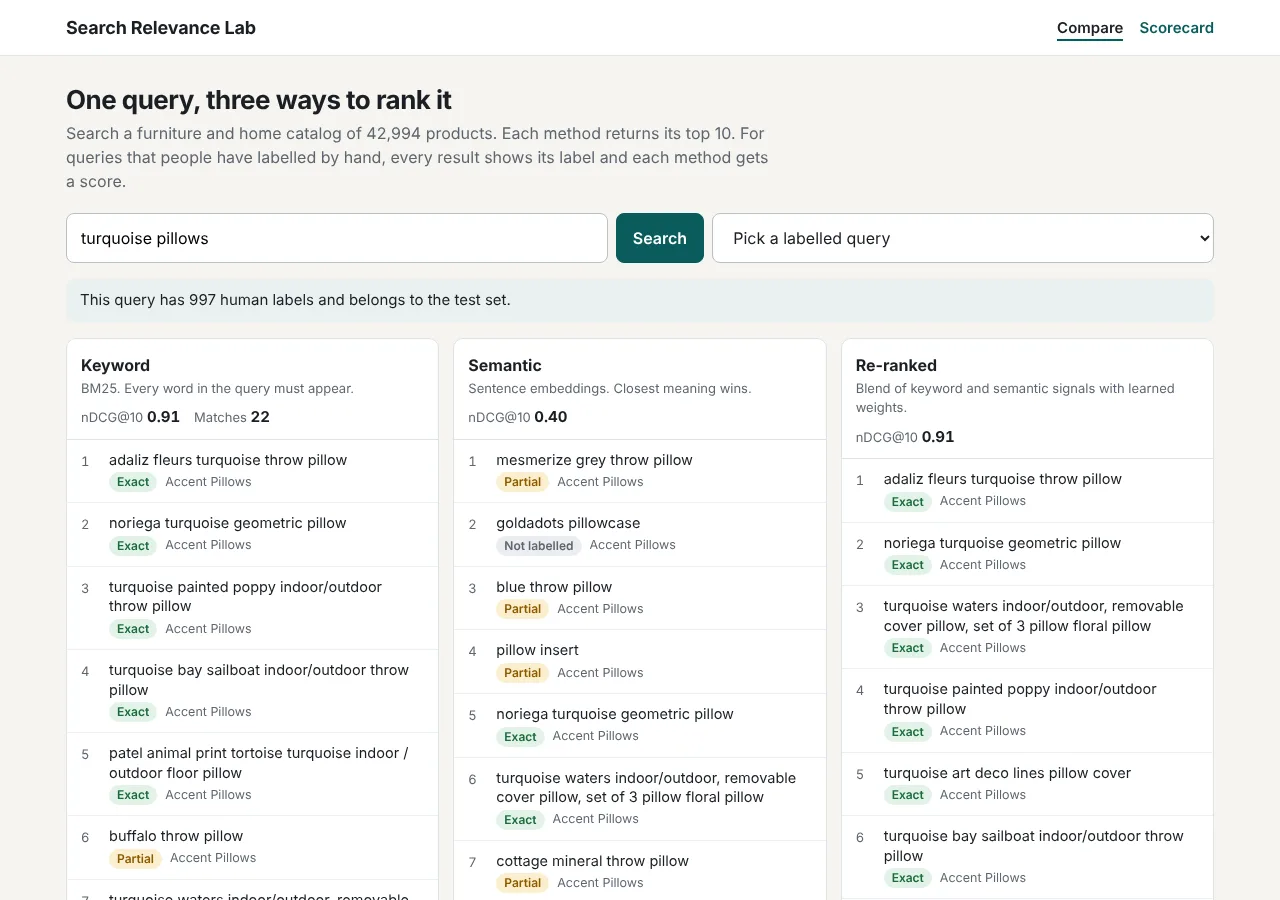
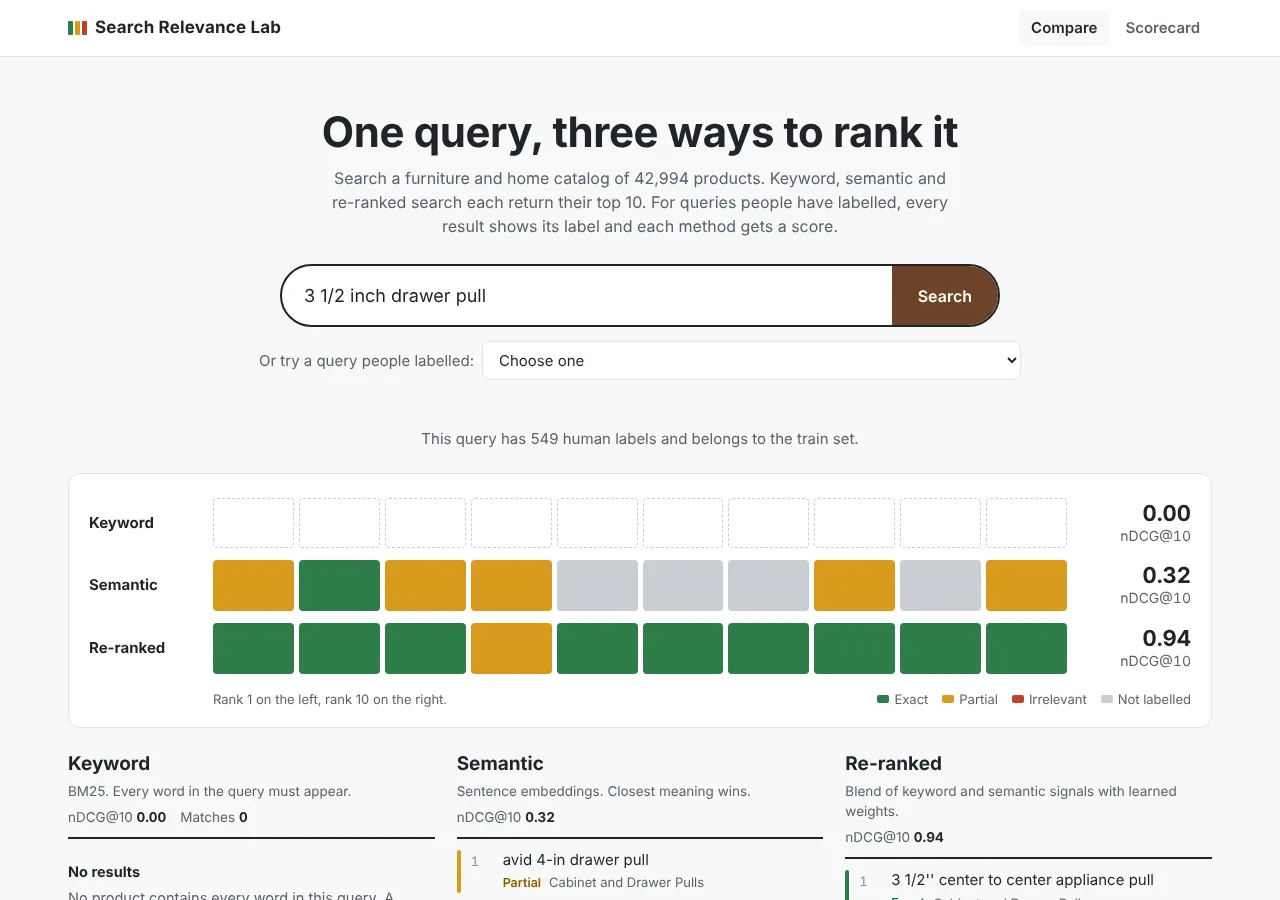
v2.19.2: new screenshots for the three redesigned apps

diff --git a/index.html b/index.html
@@ -280,7 +280,7 @@
     <div class="works">
       <article class="work reveal" data-cat="ai">
         <div>
-          <div class="meta"><span class="tag ver">v0.1.0</span><span class="tag confirmed">Live app</span></div>
+          <div class="meta"><span class="tag ver">v0.2.0</span><span class="tag confirmed">Live app</span></div>
           <h3>Garage Voice Agent</h3>
           <p class="on">Voice AI, agent platform, guardrails and evals</p>
           <dl class="ps"><div><dt>Problem</dt><dd>Voice agents are hard to trust when you can't see why they said what they said.</dd></div><div><dt>Solution</dt><dd>A voice agent for a made-up garage with every step visible, tested against simulated speech errors before each release.</dd></div></dl>
@@ -504,7 +504,7 @@
         </div><a class="thumb" href="projects/zero-results-fixer.html" tabindex="-1" aria-hidden="true"><img src="assets/img/thumbs/zero-results-fixer.webp" alt="" width="560" height="350" loading="lazy"></a></article>
       <article class="work reveal" data-cat="ai">
         <div>
-          <div class="meta"><span class="tag ver">v0.1.0</span><span class="tag confirmed">Live demo</span></div>
+          <div class="meta"><span class="tag ver">v0.2.0</span><span class="tag confirmed">Live demo</span></div>
           <h3>Confidence Gate Lab</h3>
           <p class="on">AI evaluation, Banking77 dataset</p>
           <dl class="ps"><div><dt>Problem</dt><dd>An AI that answers every question will get some of them wrong.</dd></div><div><dt>Solution</dt><dd>Sets when AI answers alone and when a person checks. At 2% wrong answers, the better model automates 67.0% of 3,080 questions.</dd></div></dl>
@@ -512,7 +512,7 @@
         </div><a class="thumb" href="projects/confidence-gate-lab.html" tabindex="-1" aria-hidden="true"><img src="assets/img/thumbs/confidence-gate-lab.webp" alt="" width="560" height="350" loading="lazy"></a></article>
       <article class="work reveal" data-cat="search">
         <div>
-          <div class="meta"><span class="tag ver">v0.1.0</span><span class="tag confirmed">Live demo</span></div>
+          <div class="meta"><span class="tag ver">v0.2.0</span><span class="tag confirmed">Live demo</span></div>
           <h3>Search Relevance Lab</h3>
           <p class="on">BM25, sentence embeddings, open WANDS dataset</p>
           <dl class="ps"><div><dt>Problem</dt><dd>Teams pay for better search models without knowing what each step adds.</dd></div><div><dt>Solution</dt><dd>Keyword, semantic and reranked search on 42,994 products, scored against labels made by people.</dd></div></dl>

diff --git a/projects/confidence-gate-lab.html b/projects/confidence-gate-lab.html
@@ -34,11 +34,11 @@
 <section class="p-hero">
   <div class="wrap">
     <a class="back" href="../#work">← All projects</a>
-    <div class="meta" style="display:flex;gap:10px;flex-wrap:wrap"><span class="tag ver">v0.1.0</span><span class="tag confirmed">Live demo</span></div>
+    <div class="meta" style="display:flex;gap:10px;flex-wrap:wrap"><span class="tag ver">v0.2.0</span><span class="tag confirmed">Live demo</span></div>
     <h1>Confidence Gate Lab</h1>
     <p class="lead">Every AI feature that answers customers needs a rule for when it may answer alone. This lab makes that rule visible: two classifiers, 3,080 labelled bank customer questions, and one threshold you can move to see automation, errors and human workload change together.</p>
     <div class="p-links"><a class="btn primary" href="https://kostasxeras.com/confidence-gate-lab/">Open the live demo <span class="arrow">→</span></a><a class="btn" href="https://github.com/costasxeras-stack/confidence-gate-lab/blob/main/docs/case-study.md">Full case study</a><a class="btn" href="https://github.com/costasxeras-stack/confidence-gate-lab">Repo</a></div>
-    <dl class="p-meta"><div><dt>Data</dt><dd>Banking77, 13,083 labelled questions</dd></div><div><dt>Models</dt><dd>Keyword baseline, AI classifier</dd></div><div><dt>Test set</dt><dd>3,080 questions, 77 intents</dd></div><div><dt>Status</dt><dd>v0.1.0, live demo</dd></div></dl>
+    <dl class="p-meta"><div><dt>Data</dt><dd>Banking77, 13,083 labelled questions</dd></div><div><dt>Models</dt><dd>Keyword baseline, AI classifier</dd></div><div><dt>Test set</dt><dd>3,080 questions, 77 intents</dd></div><div><dt>Status</dt><dd>v0.2.0, live demo</dd></div></dl>
   </div>
 </section>
 

diff --git a/projects/garage-voice-agent.html b/projects/garage-voice-agent.html
@@ -34,11 +34,11 @@
 <section class="p-hero">
   <div class="wrap">
     <a class="back" href="../#work">← All projects</a>
-    <div class="meta" style="display:flex;gap:10px;flex-wrap:wrap"><span class="tag ver">v0.1.0</span><span class="tag confirmed">Live app</span></div>
+    <div class="meta" style="display:flex;gap:10px;flex-wrap:wrap"><span class="tag ver">v0.2.0</span><span class="tag confirmed">Live app</span></div>
     <h1>Garage Voice Agent</h1>
     <p class="lead">A voice agent that answers customer calls has to hear the caller, collect details, call the right systems, stay inside rules it must never break and know when to hand over to a person. I built one end to end for a made-up garage, with every layer visible and tested.</p>
     <div class="p-links"><a class="btn primary" href="https://kostasxeras.com/garage-voice-agent/">Open the app <span class="arrow">→</span></a><a class="btn" href="https://github.com/costasxeras-stack/garage-voice-agent/blob/main/docs/case-study.md">Case study</a><a class="btn" href="https://github.com/costasxeras-stack/garage-voice-agent">Code and decisions</a></div>
-    <dl class="p-meta"><div><dt>Data</dt><dd>Made-up garage, 70 synthetic test calls</dd></div><div><dt>Speech</dt><dd>Browser recognition and voices</dd></div><div><dt>AI</dt><dd>Rules, or Claude with your key</dd></div><div><dt>Status</dt><dd>v0.1.0, live</dd></div></dl>
+    <dl class="p-meta"><div><dt>Data</dt><dd>Made-up garage, 70 synthetic test calls</dd></div><div><dt>Speech</dt><dd>Browser recognition and voices</dd></div><div><dt>AI</dt><dd>Rules, or Claude with your key</dd></div><div><dt>Status</dt><dd>v0.2.0, live</dd></div></dl>
   </div>
 </section>
 

diff --git a/projects/search-relevance-lab.html b/projects/search-relevance-lab.html
@@ -34,11 +34,11 @@
 <section class="p-hero">
   <div class="wrap">
     <a class="back" href="../#work">← All projects</a>
-    <div class="meta" style="display:flex;gap:10px;flex-wrap:wrap"><span class="tag ver">v0.1.0</span><span class="tag confirmed">Live demo</span></div>
+    <div class="meta" style="display:flex;gap:10px;flex-wrap:wrap"><span class="tag ver">v0.2.0</span><span class="tag confirmed">Live demo</span></div>
     <h1>Search Relevance Lab</h1>
     <p class="lead">A common roadmap for product search goes from keyword matching to semantic search to a learned ranker. Each step costs more to build and run. I wanted to measure what each step is worth on one catalogue, with labels made by people.</p>
     <div class="p-links"><a class="btn primary" href="https://search-relevance-lab.onrender.com">Open the live demo <span class="arrow">→</span></a><a class="btn" href="https://github.com/costasxeras-stack/search-relevance-lab/blob/main/docs/case-study.md">Full case study</a><a class="btn" href="https://github.com/costasxeras-stack/search-relevance-lab">Repo</a></div>
-    <dl class="p-meta"><div><dt>Data</dt><dd>WANDS, 42,994 products, open dataset</dd></div><div><dt>Methods</dt><dd>BM25, embeddings, tuned blend</dd></div><div><dt>Metric</dt><dd>nDCG@10 on 192 test queries</dd></div><div><dt>Status</dt><dd>v0.1.0, live demo</dd></div></dl>
+    <dl class="p-meta"><div><dt>Data</dt><dd>WANDS, 42,994 products, open dataset</dd></div><div><dt>Methods</dt><dd>BM25, embeddings, tuned blend</dd></div><div><dt>Metric</dt><dd>nDCG@10 on 192 test queries</dd></div><div><dt>Status</dt><dd>v0.2.0, live demo</dd></div></dl>
   </div>
 </section>
 

diff --git a/CHANGELOG.md b/CHANGELOG.md
@@ -1,5 +1,10 @@
 # Changelog
 
+## 2.19.2 (23 November 2026)
+
+### Changed
+- Confidence Gate Lab, Garage Voice Agent and Search Relevance Lab at v0.2.0, each with its own new design. New screenshots on the cards, in the "Start here" row and on their project pages.
+
 ## 2.19.1 (23 November 2026)
 
 ### Changed

diff --git a/README.md b/README.md
@@ -2,7 +2,7 @@
 
 **My portfolio site, served free by GitHub Pages at https://kostasxeras.com.**
 
-**Current version:** 2.19.1
+**Current version:** 2.19.2
 
 Plain HTML and CSS, no build step. The custom domain is set by the `CNAME` file, and https://costasxeras-stack.github.io redirects there.
 
